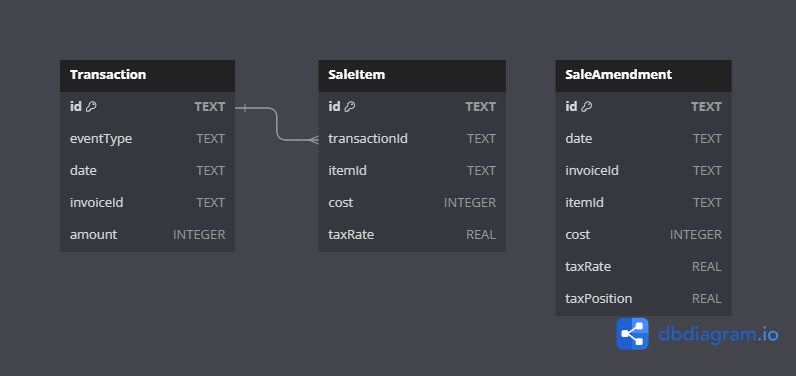
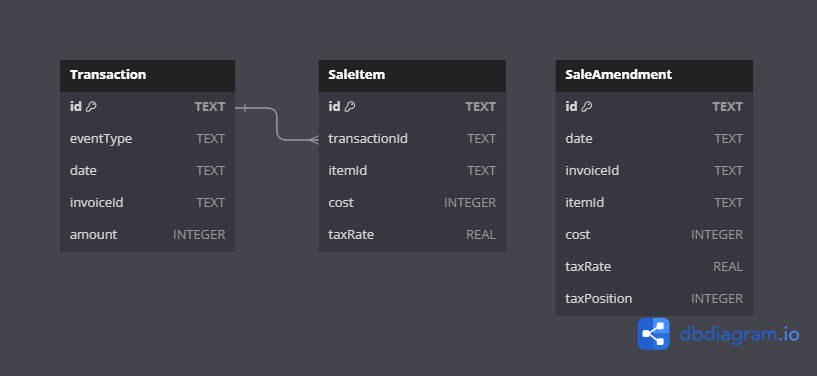
refactor: update diagrams and revert taxPosition to integer

diff --git a/src/database/migrations/1736815912081-InsertDummyData.ts b/src/database/migrations/1736815912081-InsertDummyData.ts
@@ -31,7 +31,7 @@ export class CreateAndSeedTables1736815912081 implements MigrationInterface {
         "itemId" TEXT NOT NULL,
         "cost" INTEGER NOT NULL,
         "taxRate" REAL NOT NULL,
-        "taxPosition" REAL
+        "taxPosition" INTEGER
       );
     `);
 
